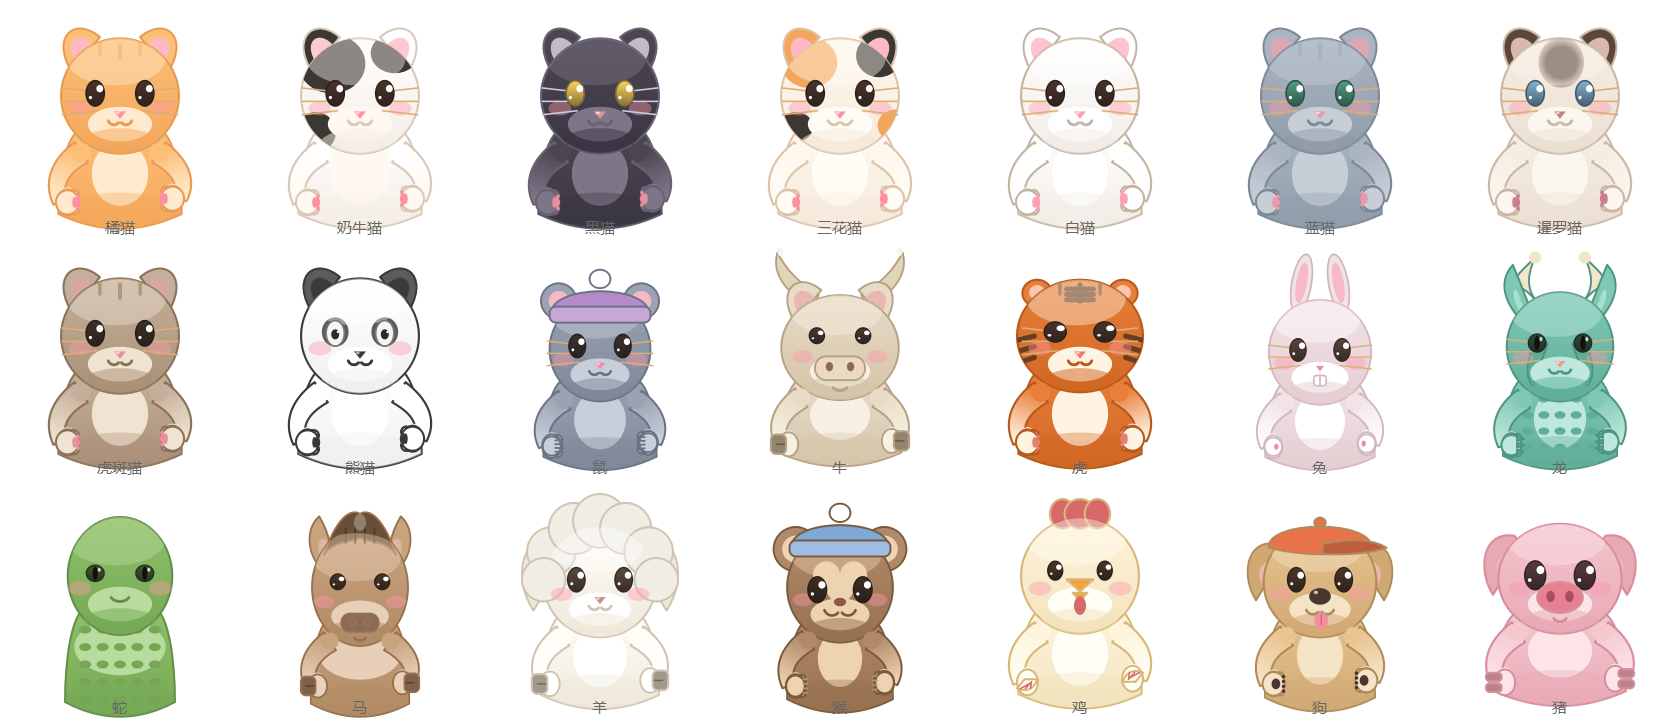
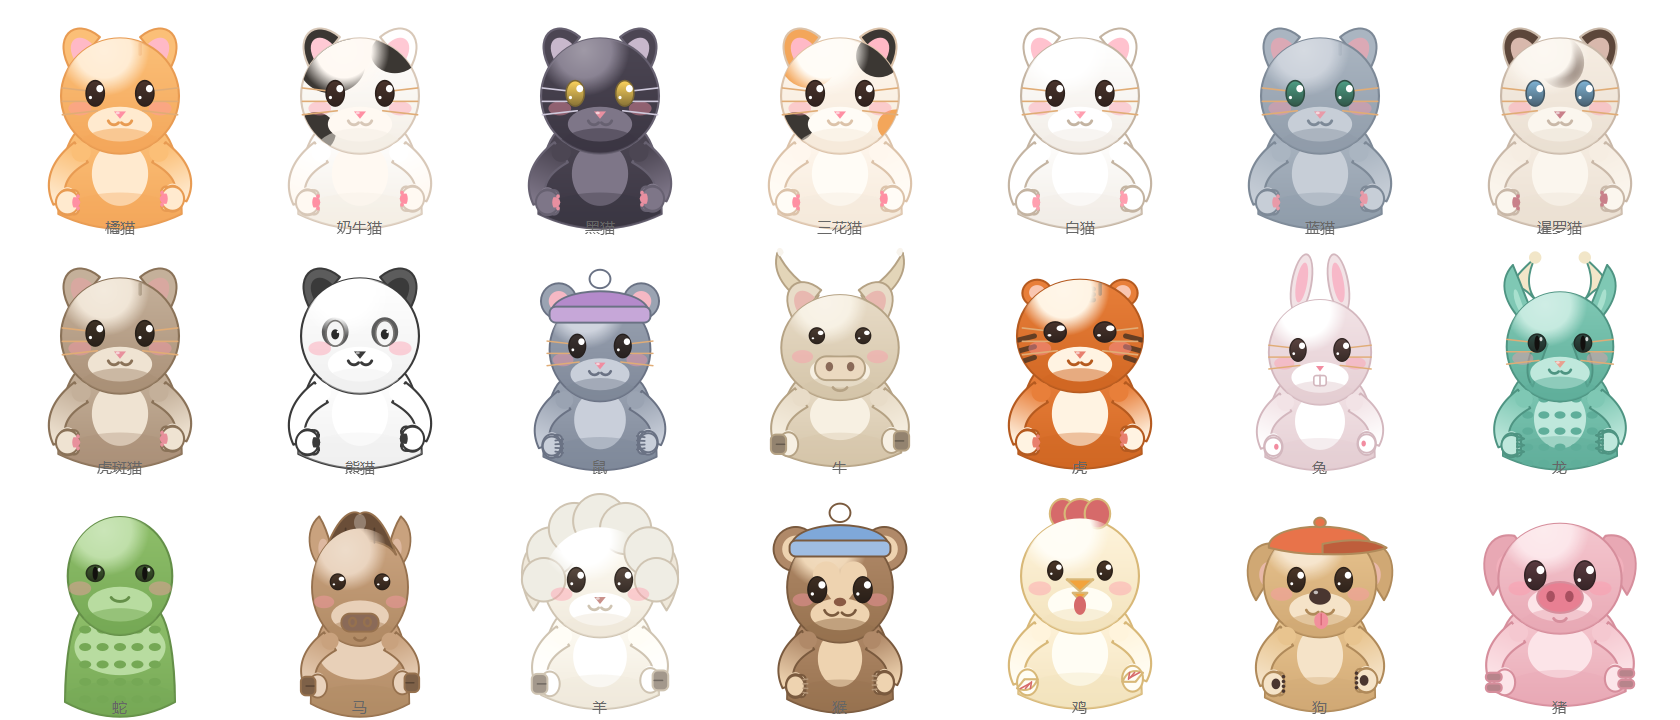
v33: 头顶受光改小而柔的径向渐变，去掉脑门大补丁

diff --git a/cat_clock.py b/cat_clock.py
@@ -1481,15 +1481,17 @@ def draw_cat(p, cx, cy, s, colors=None, blink=False, excited=False, sleepy=False
             tuft.closeSubpath()
             p.drawPath(tuft)
 
-    # ---- 顶部受光（体积感） ----
+    # ---- 顶部受光（体积感）：小而柔的斜上光斑，不是脑门大补丁 ----
     head_clip = QPainterPath()
     head_clip.addEllipse(head_rect)
     p.setClipPath(head_clip)
-    sheen = QColor(colors["fur_l"])
-    sheen.setAlpha(105)
+    g = QRadialGradient(QPointF(cx - 0.12 * s, cy - 0.34 * s), 0.34 * s)
+    g.setColorAt(0, _mix(colors["fur_l"], "#FFFFFF", 0.26))
+    g.setColorAt(0.6, _mix(colors["fur_l"], "#FFFFFF", 0.10))
+    g.setColorAt(1, QColor(0, 0, 0, 0))
     p.setPen(Qt.PenStyle.NoPen)
-    p.setBrush(sheen)
-    p.drawEllipse(QRectF(cx - 0.40 * s, cy - 0.48 * s, 0.74 * s, 0.40 * s))
+    p.setBrush(g)
+    p.drawEllipse(QRectF(cx - 0.48 * s, cy - 0.70 * s, 0.72 * s, 0.72 * s))
     p.setClipping(False)
 
     # ---- 脸颊浅色 ----
